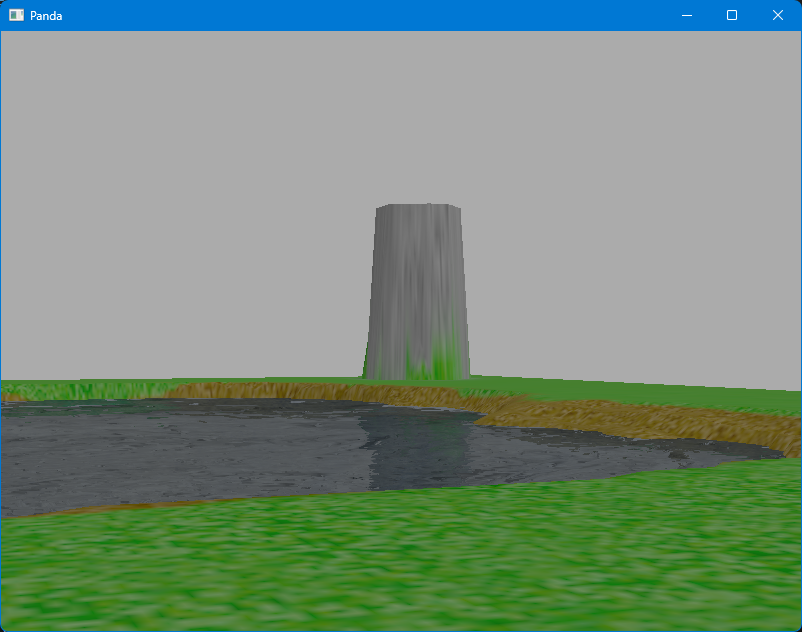
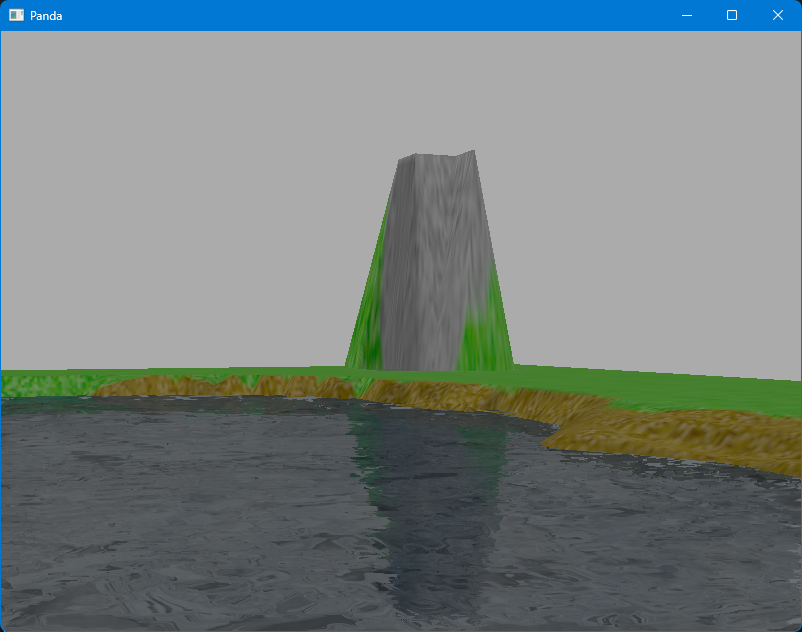
Switch to GeoMipTerrain for PBR terrain lesson 7.

diff --git a/pbr/terrain/07-normal_mapping/main.py b/pbr/terrain/07-normal_mapping/main.py
@@ -2,7 +2,9 @@ from direct.showbase.ShowBase import ShowBase
 from panda3d.core import (
     AmbientLight,
     DirectionalLight,
+    GeoMipTerrain,
     load_prc_file,
+    Material,
     SamplerState,
     Shader,
     TextureStage,
@@ -40,6 +42,14 @@ class TerrainDemo(ShowBase):
         self.sun.set_hpr(45, -45, 0)
         self.render.set_light(self.sun)
 
+        # Create materials
+        terrain_mat = Material("Terrain")
+        terrain_mat.set_base_color(Vec4(0, .5, 0, 1))
+        terrain_mat.set_metallic(0)
+        terrain_mat.set_emission(Vec4(0, 0, 0, 1))
+        terrain_mat.set_roughness(.8)
+        terrain_mat.set_refractive_index(1.5)
+
         # Load textures
         self.grass_tex = self.loader.load_texture("images/Grass.png")
         self.grass_tex.minfilter = SamplerState.FT_linear_mipmap_linear
@@ -62,30 +72,35 @@ class TerrainDemo(ShowBase):
         self.color_mask_tex.magfilter = SamplerState.FT_linear_mipmap_linear
 
         # Load terrain
-        self.terrain = self.loader.load_model("meshes/Terrain.gltf")
-        self.terrain.set_scale(256, 256, 256)
-        self.terrain.set_pos(0, 261, 0)
+        self.terrain = GeoMipTerrain("Terrain")
+        self.terrain.set_heightfield("images/Heightmap.png")
+        self.terrain.set_block_size(32)
+        self.terrain.set_focal_point(self.camera)
 
-        self.terrain.set_shader(self.terrain_shader)
-        self.terrain.set_shader_input("texScale0", Vec2(.1, .1))
-        self.terrain.set_shader_input("texScale1", Vec2(.1, .1))
-        self.terrain.set_shader_input("texScale2", Vec2(.1, .1))
-        self.terrain.set_shader_input("texScale3", Vec2(.1, .1))
+        self.terrain.get_root().set_sz(128)
+        self.terrain.get_root().set_pos(-256, 0, -64)
+        self.terrain.get_root().set_material(terrain_mat)
+
+        self.terrain.get_root().set_shader(self.terrain_shader)
+        self.terrain.get_root().set_shader_input("texScale0", Vec2(.1, .1))
+        self.terrain.get_root().set_shader_input("texScale1", Vec2(.1, .1))
+        self.terrain.get_root().set_shader_input("texScale2", Vec2(.1, .1))
+        self.terrain.get_root().set_shader_input("texScale3", Vec2(.1, .1))
 
         stage0 = TextureStage("Grass")
-        stage0.set_texcoord_name("0")
         stage1 = TextureStage("Dirt")
         stage2 = TextureStage("Rock")
         stage3 = TextureStage("Blank")
         stage4 = TextureStage("ColorMask")
 
-        self.terrain.set_texture(stage0, self.grass_tex)
-        self.terrain.set_texture(stage1, self.dirt_tex)
-        self.terrain.set_texture(stage2, self.rock_tex)
-        self.terrain.set_texture(stage3, self.blank_tex)
-        self.terrain.set_texture(stage4, self.color_mask_tex)
+        self.terrain.get_root().set_texture(stage0, self.grass_tex)
+        self.terrain.get_root().set_texture(stage1, self.dirt_tex)
+        self.terrain.get_root().set_texture(stage2, self.rock_tex)
+        self.terrain.get_root().set_texture(stage3, self.blank_tex)
+        self.terrain.get_root().set_texture(stage4, self.color_mask_tex)
 
-        self.terrain.reparent_to(self.render)
+        self.terrain.generate()
+        self.terrain.get_root().reparent_to(self.render)
 
         # Load water plane
         self.water = WaterPlane(
@@ -93,10 +108,18 @@ class TerrainDemo(ShowBase):
             scale=Vec3(256, 256, 1)
         )
 
+        # Add update task
+        self.task_mgr.add(self.update, "update")
+
         # Configure buffer viewer
         self.bufferViewer.setPosition("ulcorner")
         self.bufferViewer.setCardSize(.5, 0)
         self.accept("v", self.bufferViewer.toggleEnable)
+
+    def update(self, task):
+        # Update terrain
+        self.terrain.update()
+        return task.cont
 
 
 # Entry Point
